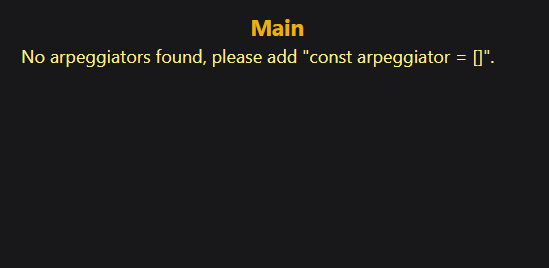
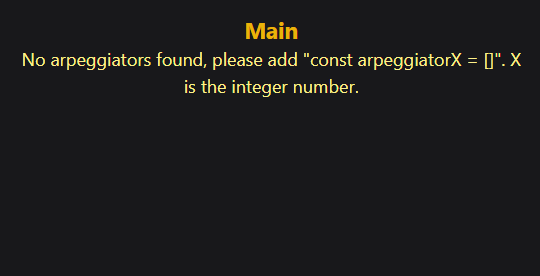
Update README.md file, added condition to handle error, modified the displayed text.

Changed region(s): [[0.0296, 0.1791, 0.9778, 0.2687], [0.3259, 0.2985, 0.6519, 0.3582], [0.4444, 0.0597, 0.563, 0.1493]]

diff --git a/src/App.js b/src/App.js
@@ -125,8 +125,14 @@ export default function StrudelDemo() {
                 },
             });
           }
+
+          if (!validateText()) {
+            alert("Please make sure the text is not empty during playing, now you have to be paid! RESET BROWSER!")
+            window.location.reload();
+          } else {
           Proc();
           ProcAndPlay();
+        }
       });
     
     // Function to handle update the editor from the other files.

diff --git a/src/components/input/radioInputs/ArpeggiatorSelection.js b/src/components/input/radioInputs/ArpeggiatorSelection.js
@@ -27,7 +27,7 @@ export function ArpeggiatorSelection({text, handleChangeArp}) {
             </div>
             ) : arpeggiators.length === 0 ? (
             <div className="text-yellow-200 text-center">
-                No arpeggiators found, please add "const arpeggiator = []".
+                No arpeggiators found, please add "const arpeggiatorX = []". X is the integer number.
             </div>
             ) : 
             (

diff --git a/README.md b/README.md
@@ -22,16 +22,17 @@ To start interacting with your tune, you will first use the playback buttons bel
 ### 2. Arpeggiator Selection
 Selecting the right arpeggiator is key to defining your song’s character. Radio buttons allow you to switch between multiple arpeggiators, and the currently selected arpeggiator is applied to your tune immediately.  
 
-
-
 ![Arpeggiator selection](src/images/arpeggiator_selection.png)  
  
- If your text area is empty, a message will appear to prompt you to add content. Similarly, if no arpeggiators are defined in your text, another message guides you to include `const arpeggiatorX` entries.
+If your text area is empty, a message will appear to prompt you to add content. Similarly, if no arpeggiators are defined in your text, another message guides you to include `const arpeggiatorX` entries.
 
 ![Message when text is empty](src/images/messages_arp(1).png)  
 
 ![Message when no arpeggiators exist](src/images/messages_arp(2).png)  
 
+Besides `const arpeggiator1` and `const arpeggiator2`, you can add more arpggiator in text and display in the main. The added arpeggiator can run if there are valid code inside it.
+
+![Added Arp](src/images/add_arp.png)  
 ---
 
 ### 3. Effect Selection
@@ -117,10 +118,14 @@ To prevent errors and guide your workflow, the project displays alert messages w
   1. Attempting to play a song with an empty text area triggers a notification. 
   ![alert messages](src/images/alerts(empty&playing).png)  
 
-  2. Duplicate arpeggiators or selecting effects/instruments without proper text also generate alerts. 
+  2. Attemping to delete the text during the song is playing will trigger a notification and reload the window to avoid the errors.
+  ![alert messages](src/images/alert(delete_during_playing).png)
+
+  3. Duplicate arpeggiators or selecting effects/instruments without proper text also generate alerts. 
    ![alert messages](src/images/alert(dup_arp).png)  
    ![alert messages](src/images/alert(instrument).png)  
    ![alert messages](src/images/alert(effect).png)  
+
 
 These messages ensure a smooth and error-free user experience.
 
@@ -148,7 +153,7 @@ When using this website to create music, please follow these guidelines for a sm
 7. **Deleting song**   
    Before you deleting the other song, please ensure to save the song that you are doing if it exists or add it to the local storage as the website will be reset after you delete song. Therefore, always saving or adding the song to avoid your sadness after accidently delete the song you are working.
 
-8. **Minimum of speed**
+8. **Minimum of speed**    
    The minimum of speed was set at 0.01 to avoiding the bug from the graph when 0 can make the graph run faster instead of stopping.
 
 ## Demonstrate video
@@ -162,7 +167,7 @@ Some elements of this project use or are inspired by examples found in the Strud
 - Synth sounds and effects were inspired by bakery demos, though they have been customized for this project. 
 
 ## AI USAGE
-During this assignment, I used AI assistance from ChatGPT to help guide my coding process and debug unknown issues, significantly reducing development time. Here are some examples of how ChatGPT assisted me:
+During this assignment, I used AI assistance from ChatGPT to help guide my coding process and debug unknown issues, significantly reducing development time. As there will be many images in readme.md, I would like to send some examples of how ChatGPT assisted me and what code that help me to solve the problem:
 
 ### 1. Fixing Bugs
 Whenever I encountered errors, I provided the error messages and relevant code to ChatGPT, which helped me identify and resolve the issues quickly.
